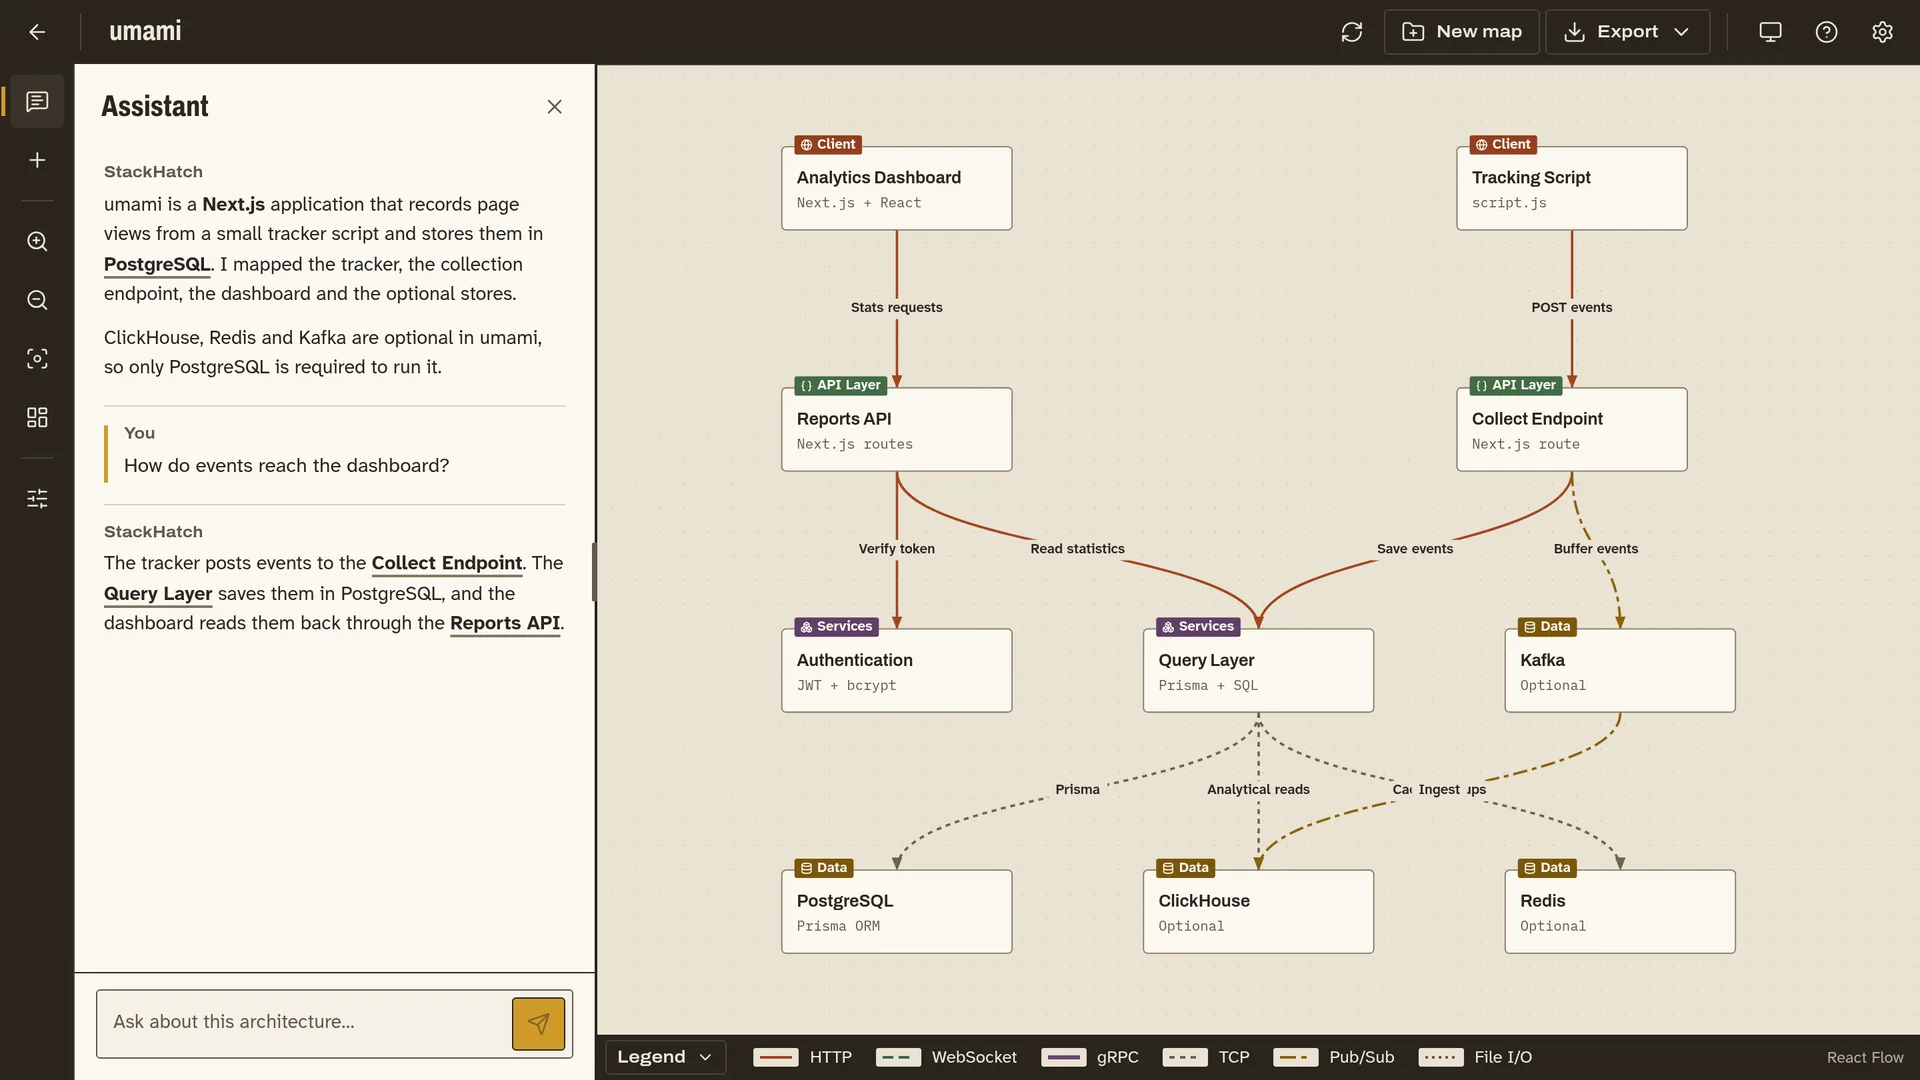
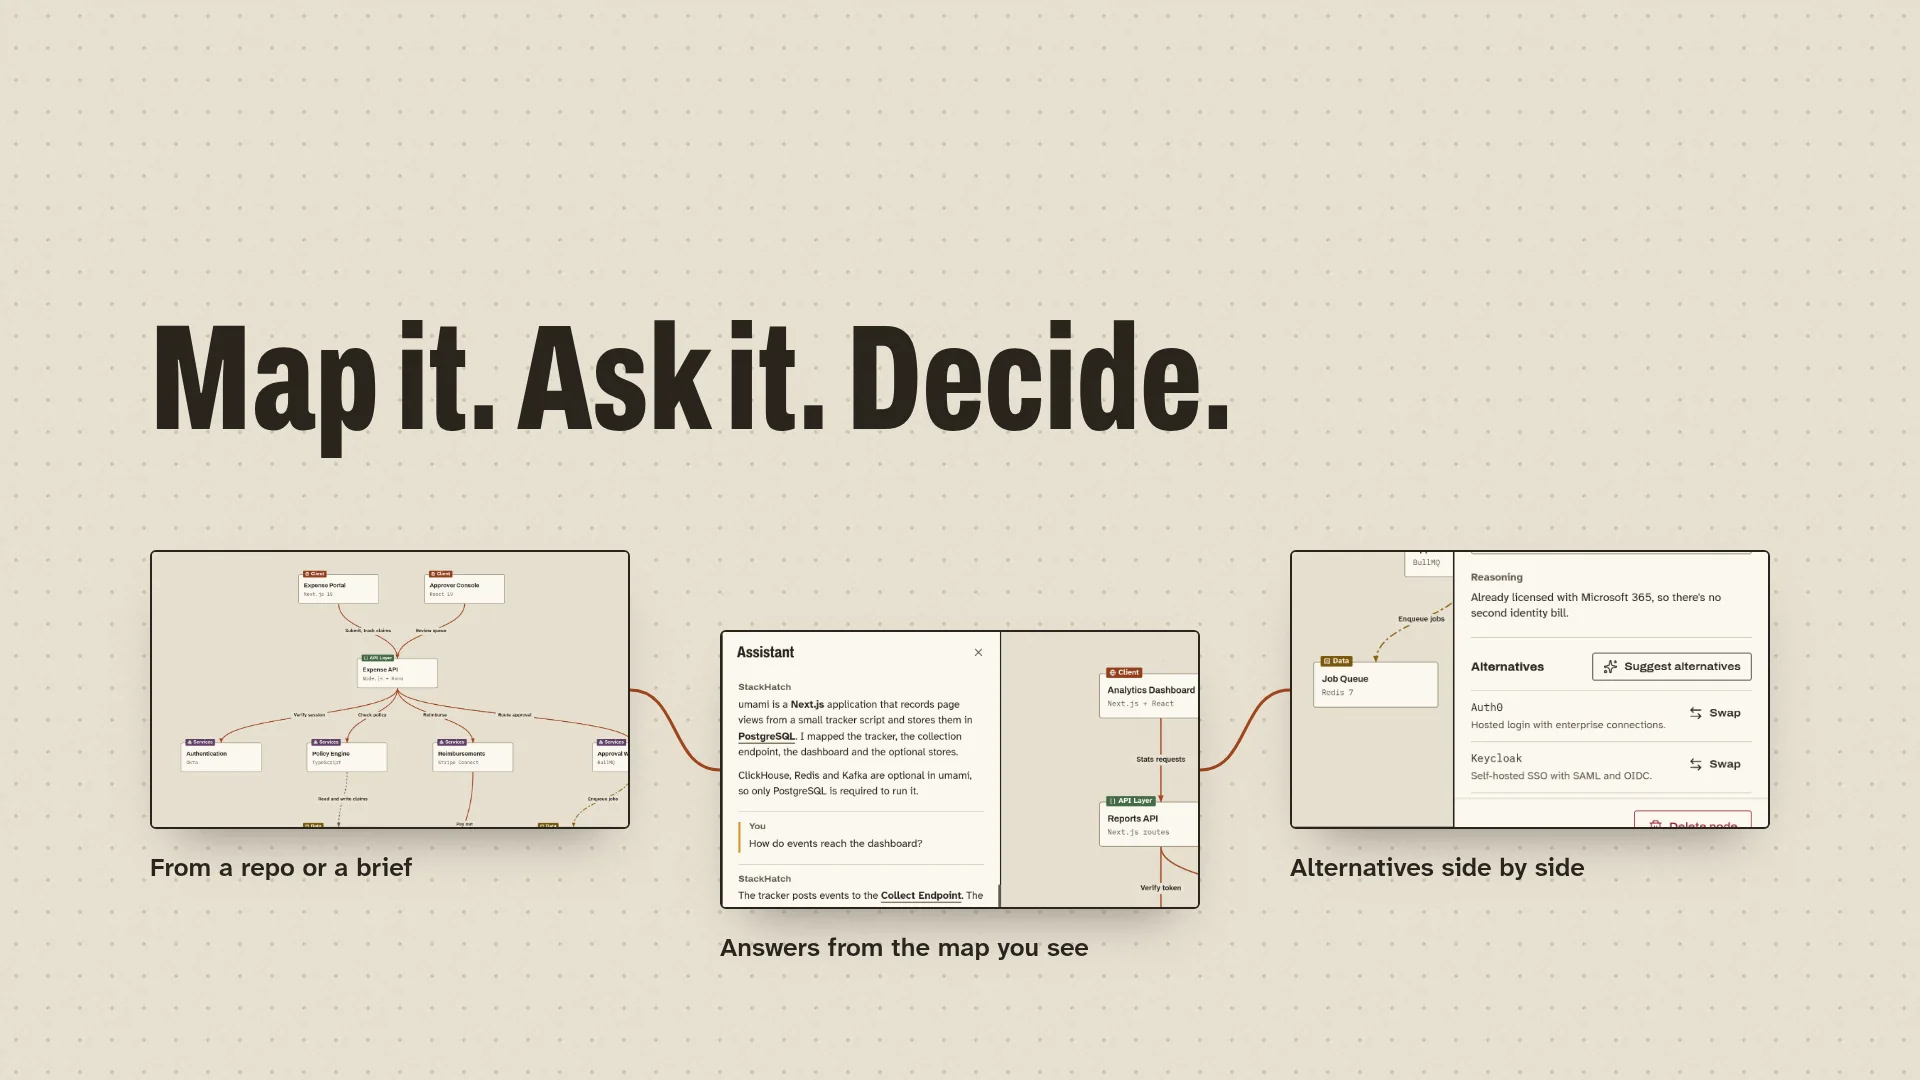
Smaller hero headline and title-slide tour poster

diff --git a/src/app/landing.module.css b/src/app/landing.module.css
@@ -741,10 +741,10 @@
     padding-bottom: 1.25rem;
   }
 
-  /* Three forced lines at 74 px ("Keep the / whole stack / in view"),
+  /* Three forced lines at 64 px ("Keep the / whole stack / in view"),
      shrinking only where "whole stack" would outgrow a 320 px screen. */
   .title {
-    font-size: min(4.625rem, 21vw);
+    font-size: min(4rem, 18vw);
   }
 
   .title span {

diff --git a/src/app/globals.css b/src/app/globals.css
@@ -368,7 +368,7 @@
 
 @utility type-display-xl {
   font-family: var(--font-display), var(--font-body), sans-serif;
-  font-size: clamp(4.625rem, 3.37rem + 5.14vw, 8rem);
+  font-size: clamp(4rem, 2.95rem + 4.3vw, 6.5rem);
   font-weight: 800;
   font-stretch: 62%;
   line-height: 0.86;
